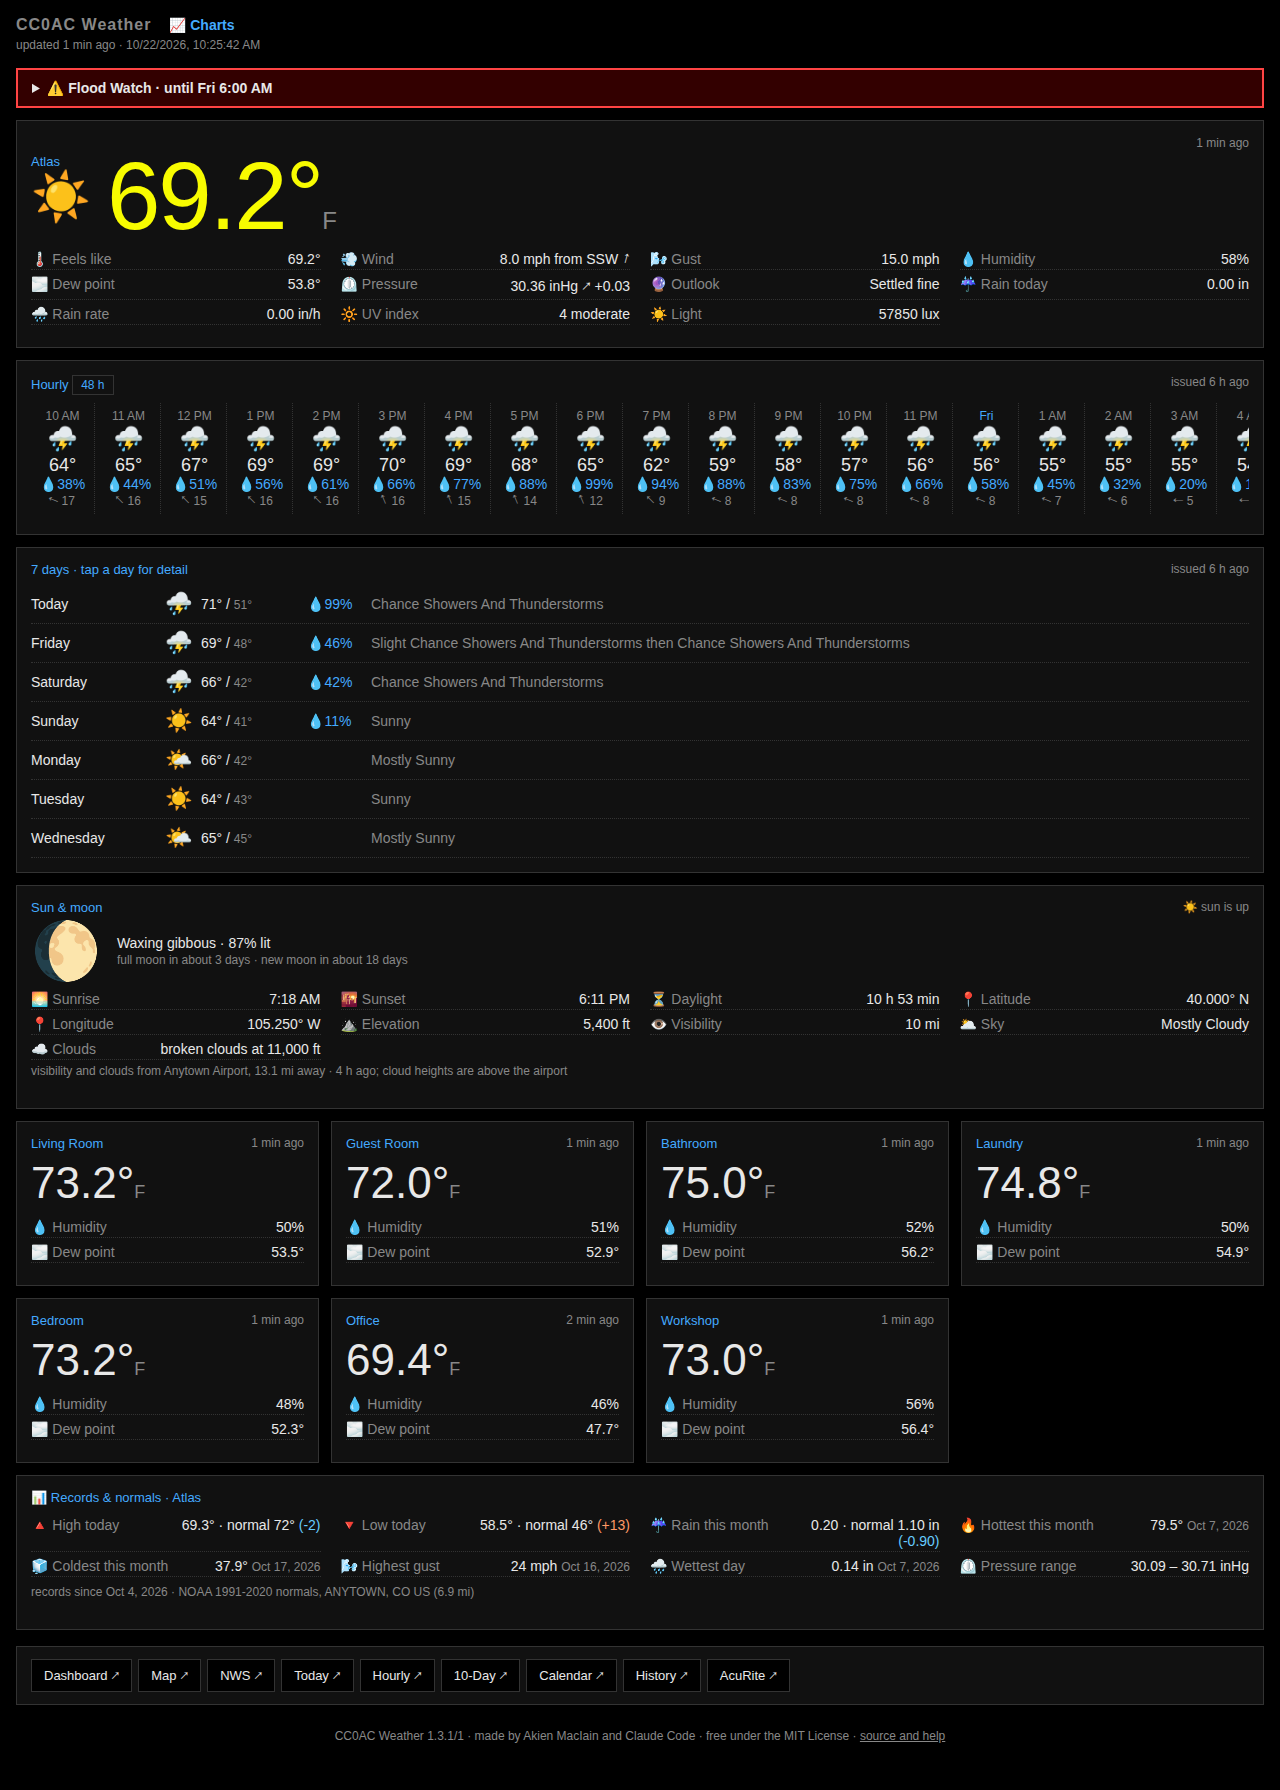
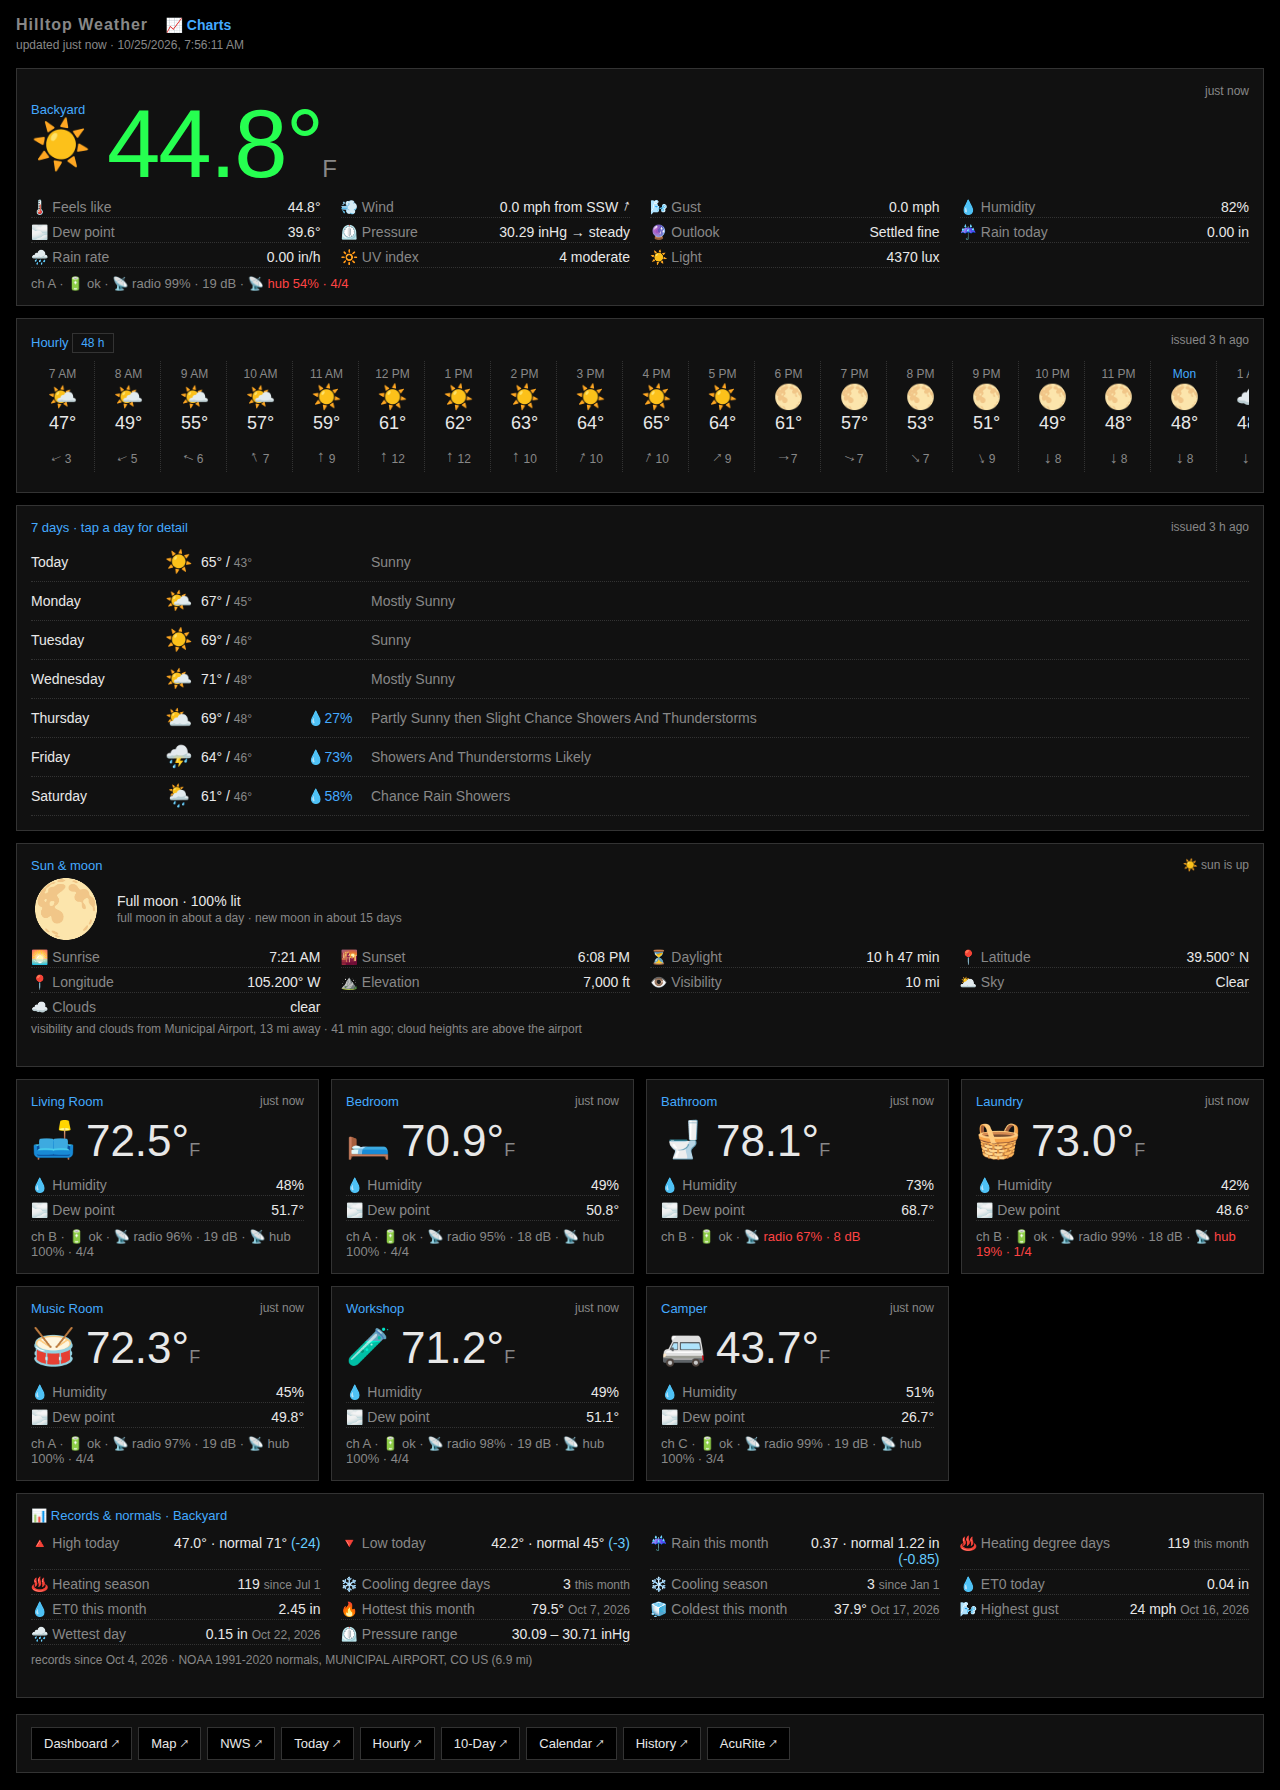
README: the whole feature list, untested parts starred; the 1.3.18 dashboard
Claude-Session: https://claude.ai/code/session_014wMGgA6UUtMJFpL2rt1gJp

diff --git a/README.md b/README.md
@@ -27,18 +27,74 @@ their trademark; it is used here only to say which hardware this works with.
 
 ## What it does
 
-- **Keeps every reading** from your station, for good, in files you own (SQLite and CSV).
-- **Dashboard and charts** in any browser, phone included, with the forecast, alerts,
-  records against the 30-year normals, and an outlook from your own barometer.
-- **Leaves what you have working:** the AcuRite app and Weather Underground carry on.
-- **Sends your station on** to Windy, PWSweather, Weathercloud, CWOP, and MQTT /
-  Home Assistant, if you want.
-- **Phone alerts** when readings stop, and for frost, heat, a falling barometer or lightning close by.
-- **Answers AI assistants** (MCP): ask "how cold did it get last night?"
-- **Other brands** by console upload or radio; **no station at all** works too,
-  from the internet's weather.
-- **Wall displays:** turns an old Android phone into a locked-down weather kiosk.
-- **Looks after itself:** updates if you say yes, disk health, weekly backup.
+Everything it does, in one list. **\*** marks what is written but not yet
+tested: run, that is, not just read. [The table below](#what-it-runs-on-and-whats-been-tested)
+says what each tested part ran on.
+
+**Your readings, kept**
+- Every reading from your station, for good, in files you own: SQLite and CSV, with
+  each sensor's raw uploads and radio lines kept beside them.
+- Older readings brought in\*: from WeeWX, Cumulus, a CSV file or Weather Underground.
+- A weekly backup of the settings and every reading to a folder or a Windows share\*.
+
+**Where the readings come from**
+- An AcuRite **Access** hub, either plugged into the Pi or pointed at it; the
+  smartHUB\*.
+- An **RTL-SDR radio dongle** hearing the sensors itself, no hub needed: AcuRite
+  Atlas and towers on real gear; the 5-in-1, Iris and 200-odd other models from
+  recordings only\*.
+- **Other brands' consoles** uploading to it: Ambient Weather, Ecowitt, Fine Offset
+  and anything in Wunderground format\*.
+- **No station at all:** the National Weather Service or Open-Meteo as the only
+  source\*.
+
+**What you see**
+- A **dashboard** in any browser, phone included: the outdoor card, the hourly and
+  7-day forecast, weather alerts from the National Weather Service, sun and moon,
+  a card for every room, and records against the 1991-2020 normals.
+- **Charts** of every reading: today, 24 hours, a week, a month, a year, all time
+  or any range of dates. A room's card opens its own line.
+- An **outlook from your own barometer**, worked out with no internet.
+- **Names, icons and links** for each sensor, set in its own section of config.ini.
+- **Your own look:** one `theme.css` for the colors and font, a folder for pages of
+  your own, buttons for radar maps or webcams, your station's name on every page.
+- **Your units:** US, metric or UK, or any mix.
+- The dashboard **inside another page**, such as a home page or Home Assistant\*.
+- **NOAA-style climate summaries** for a month or a year.
+- A **status page**: every sensor's battery and signal, every receiver, the raw
+  logs, uptime, disks and the last backup.
+- **Settings in the browser**, checked before they're saved.
+- **Wall displays:** an old Android phone turned into a locked-down weather
+  kiosk\*.
+
+**Readings you can trust**
+- **Calibration** for a sensor that reads a little off.
+- Readings no weather could produce are **held back**, not recorded as weather.
+
+**Sending it on**
+- Leaves what you have working: the AcuRite app and Weather Underground carry on.
+- **MQTT and Home Assistant**, with the sensors set up in Home Assistant for you.
+- A **webhook**\* and **InfluxDB**\*.
+- **Weather networks:** Windy\*, PWSweather\*, Weathercloud\* and CWOP\*.
+- **AI assistants** (MCP): ask "how cold did it get last night?" Claude Code
+  connects directly; Claude Desktop through `mcp-remote`\*.
+
+**Telling you**
+- **Phone alerts** (ntfy) when readings stop, and for frost, heat, a falling
+  barometer or lightning close by; by email\* too.
+
+**Looking after itself**
+- **Updates** only if you say yes, each one tried and rolled back if it doesn't
+  work\*.
+- **Disk health** checked daily\*.
+- **https** on the same port, with a free certificate and a free DuckDNS name kept
+  pointed at your house.
+- A **diagnostics file** to attach when something reads wrong, with keys,
+  addresses, names and location taken out.
+
+**Installing**
+- A ready-made Raspberry Pi card\*, a one-line installer for Linux\*, Mac\* and
+  Windows\*, or Docker\*.
 
 ## Install
 
